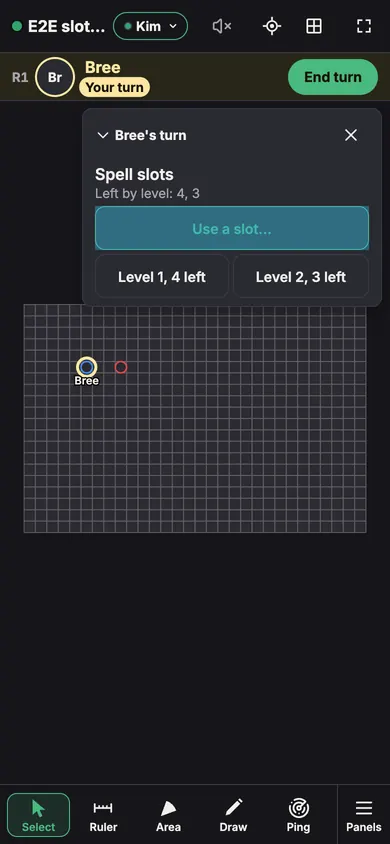
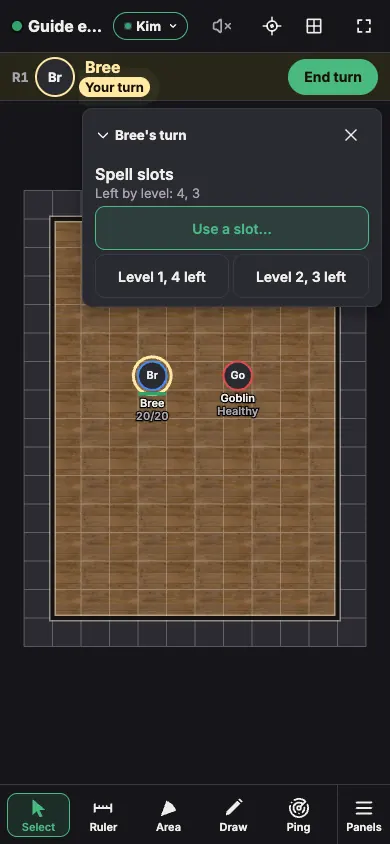
docs(slots): the guide's two slot pictures retaken, the examples' counts, the dm's search, the constitution field, the settled offer wording and the update note's wrap

diff --git a/docs/design/design-v1-slots.md b/docs/design/design-v1-slots.md
@@ -320,8 +320,8 @@ Each would add its own predicate in migrate.ts, gated at 68, in a lane stacked a
 - **D-261127-367** `patch.spent` needs `classes`, `ddbSync` and `expect.classes` in the same patch. Rejected: `classes` and `expect` alone.
 - **D-261127-368** With classes, a preset whose class is not in them asks for no update. Rejected: falling back to the total level.
 - **D-261127-369** sizeGuard counts `spent` and `useRev` at their widest for a lent player's rest. Rejected: no written field, which a lent rest disproves.
-- **D-261127-400** (amended by 408) Ordinary slots are offered at exactly the casting level, Pact as "cast at level 3". Rejected: Pact only at an equal level, which gives a Warlock's level 1 spell nothing.
-- **D-261127-401** Where Pact Magic is the only pool covering the spell, the casting level starts at the Pact level. Rejected: the spell's own level, which a Warlock must raise by hand every cast.
+- **D-261127-400** (amended by 408) Ordinary slots are offered at exactly the casting level, Pact as "cast at level 3". Rejected: Pact at or below its level after sending (408). Before sending, the Pact-only default of 401 still lets a Warlock's level 1 spell reach the Pact level.
+- **D-261127-401** Where Pact Magic is the only pool covering the spell, judged by the slot maxima the classes give and not the slots left, the casting level starts at the Pact level. Rejected: the spell's own level, which a Warlock must raise by hand every cast.
 - **D-261127-402** `useRev` is named beside `classes` and `spent` in the snapshot, import, projection, twins and scans, a whole number like `rev`. Rejected: a model field the strict import schema refuses.
 - **D-261127-403** An area spell with no row gets its offer in a fallback line under the creature's options. Rejected: no offer for such a spell.
 - **D-261127-404** A rest always moves `useRev`, a use only when it changes something. Rejected: every use op, no-ops too.
@@ -377,17 +377,17 @@ ASTRA-01 and R1-17 (Wild Shape CON): 2, 3.3, 6, D-263. ASTRA-02 (re-sync Undo af
 
 **Lane A (rules and server)**
 
-- Refusals the design names no words for: a slot or die op on a creature with no character reads "Only a character has spell slots and Hit Point Dice."; a character with no Pact Magic "Bree has no Pact Magic slots."; no die of the size "Bree has no d12 Hit Point Dice."; a shape or block whose numbers are not known on the server "The character's Constitution modifier is not known here." Below 1 HP or not alive reuses rest.ts REST_NEEDS_HP ("a rest needs at least 1 Hit Point"), the same check a rest makes.
+- Refusals the design names no words for. A slot or die op on a creature with no character reads "Only a character has spell slots and Hit Point Dice.", a character with no Pact Magic "Bree has no Pact Magic slots.", no die of the size "Bree has no d12 Hit Point Dice.", and a shape or block whose numbers are not known on the server "The character's Constitution modifier is not known here." Below 1 HP or not alive reuses rest.ts REST_NEEDS_HP ("a rest needs at least 1 Hit Point"), the same check a rest makes.
 - Refusal order for a die spend or roll: no classes, no die of that size, below 1 HP or not alive, full HP, none left.
 - `con` absent on a character with no block and no shape counts as +0.
 - The Hit Point Die roll's label is "Hit Point Die (d10)", so the line reads "Kim rolled for Bree, Hit Point Die (d10): 1d10+2 (7) = 9." The dice line is `to: "all"`, and its reach comes from `hitDie` in diceRollReach.
-- A typed die's line comes before its HP line in the op; order is free by D-261127-270.
+- A typed die's line comes before its HP line in the op. The order is free by D-261127-270.
 - Undo labels for give backs of the three new kinds read "giving back ..." (the design's words), while older kinds keep "restoring ...".
-- levelUps takes the classes as a third parameter; with an empty or absent list it keeps the total-level rule.
+- levelUps takes the classes as a third parameter. With an empty or absent list it keeps the total-level rule.
 - SPENT_MOST is 81 bytes, by the caps alone (nine slot levels at 4, Pact at 4, each die at 20). A lent character takes 4801 of EXACT_WIDTH.character's 5120 bytes (4685 before), a margin of 319 bytes.
 - stateSchema refuses an empty `classes` list and `spent` with no classes, since the reducer never stores either.
 - reid.caps.test.ts now loops the versions below version 8 ids, since a room at 50 or 51 gives no ids anew and its load runs no measure.
-- The replay proof is shared/reducer/useStamp.replay.test.ts with a hash-only fixture (14 KB): 120 seeded runs, 3600 ops, written on the base build ztwoqzzx (d30bb30c), byte-equal at 65, 66 and 67; live, 1787 of 3600 ops land otherwise, every one by the stamp.
+- The replay proof is shared/reducer/useStamp.replay.test.ts with a hash-only fixture (14 KB): 120 seeded runs, 3600 ops, written on the base build ztwoqzzx (d30bb30c), byte-equal at 65, 66 and 67. Live, 1787 of 3600 ops land otherwise, every one by the stamp.
 
 **Lane C (D&D Beyond)**
 
@@ -407,12 +407,15 @@ ASTRA-01 and R1-17 (Wild Shape CON): 2, 3.3, 6, D-263. ASTRA-02 (re-sync Undo af
 - The Classes sheet is titled "Classes". Each row puts its class on a line of its own, with the level and Remove under it, so a phone never leaves Remove alone on a line. The level uses the panel's stepper (minus 1, the number, plus 1), since no Size stepper with icons exists.
 - A new row takes the first SRD class no row picked, at level 1. With no rows the sheet says "No classes. Saving with none removes them and every spent slot and die, and keeps the level."
 - Below class level 3, "Its subclass casts spells" shows unticked and unavailable, and Save sends `third` only from 3. The Classes line names an Other class "Other class 3 (d8)".
-- Words the design left open: Restore off reads "Every level 3 spell slot is there.", "Every Pact Magic slot is there." and "Every d10 Hit Point Die is there."; Pact's Restore is named "Restore a Pact Magic slot"; Type a roll… is named "Type a roll for a d10 Hit Point Die"; a typed roll out of range reads "Type the HP from 1 to 100000."; the Constitution field's hint reads "-5 to 10. No stat block to read it from. This device keeps it."
+- Words the design left open. Restore off reads "Every level 3 spell slot is there.", "Every Pact Magic slot is there." and "Every d10 Hit Point Die is there." Pact's Restore is named "Restore a Pact Magic slot", and Type a roll… "Type a roll for a d10 Hit Point Die". A typed roll out of range reads "Type the HP from 1 to 100000.", and the Constitution field's hint "-5 to 10. No stat block to read it from. This device keeps it." A nonempty Constitution field that is no modifier from -5 to 10 holds Roll with "Type a Constitution modifier from -5 to 10." (SLOTS-ASTRA-01), and only an empty one counts as +0.
+- One pending guard serves every die row's Roll, typed Spend and Restore, so no second die goes before the first answer (SLOTS-ASTRA-02).
 - Pact Magic's row on the turn card has Use alone, as the card's class resource rows do. The drawer's and the full rows have Restore too.
 - The bar's drawer folds the slots wherever the bar spans a phone held upright, resting as the strip or expanded (TokenActionBar's frame `rest`).
 - A Hit Point Die roll's result shows once its answer commits, as the death save card's does (useCardRoll). It keeps no hold for the 3D dice. Where the numbers failed to load, Roll is off with "The Constitution modifier did not load." and the shared load-failure line stands under the rows.
 - The slot offer lives in the roll options' store as `offers`, keyed by the creature and the spell's name, case blind, so another ask from that spell replaces it, and an ask with no pool at its level ends it. Its group is named "Hold Person: Cast at level 2.", and Dismiss "Dismiss the slot offer for Hold Person". The fallback line stands at the top of the creature's options for every offer whose spell has no row.
-- The room search finds Classes, Spell slots and Hit Point Dice on a character's page only, not in the token panel.
+- The room search finds Classes, Spell slots and Hit Point Dice on a character's page only, not in the token panel. The DM finds Spell slots and Hit Point Dice on every character's page, as the rests, and Classes stays with the character's players (SLOTS-O-03).
+- A player lent only a character's token gets the Short Rest note without its classes, since he holds no Classes control (SLOTS-O-04).
 - The Long Rest note for a character with classes but no slots leaves out "every spell slot back". The party card names each kind any of the party has spent ("It also restores every class resource and spell slot.").
+- The DM guide's two pictures, spell-slots-turn.webp and short-rest-dice.webp, come from scripts/guide-slots.ts, in a room named "Guide examples", as the guide's other scripted pictures do.
 - RecentRolls.tsx needed no change: a Hit Point Die roll has no Again because `againInput` returns none for it.
 - Alignment: the page's slot rows, the Classes sheet with a Fighter and an Other row and its lowering line, the Short Rest card with two die sizes, its typed field and a landed roll, the turn card's folded row open and the drawer's Restore a slot… are in the sweep (alignmentRoom.ts slotScreens, at the combat screens' sizes). The turn card's folded row closed and the slot offer are measured in slotsdice.e2e.ts at 390 x 844.

diff --git a/FEATURES.md b/FEATURES.md
@@ -1565,7 +1565,7 @@ The DM asks players for a saving throw or an ability check, and each player roll
   - Layout: Like pips, the words drop as one part to the right end of the next line when the line is too narrow, and never break inside the count.
 - **Classes**: a character's classes and class levels, at most 12, each SRD class once, adding up to level 20 at most. Uses ends with "Classes: Wizard 5, Cleric 1" and its pencil, Edit classes, or with "Add your classes" for a character with none, for the DM and the character's players.
   - The Classes sheet has a row per class with its level and Remove, and Add a class. An Other class, for one that is not in SRD 5.2.1, takes a Hit Point Die and counts toward the level and the dice, never spell slots. A Fighter or Rogue has "Its subclass casts spells", from class level 3.
-  - Under the rows it previews what they give ("Spell slots: 4, 3, 2. Pact Magic: 2 at level 3. Hit Point Dice: 5 d10 and 1 d8.") and the level they add up to. Save sets the character's level to that sum, and a Save that lowers the level asks for a second tap ("Lower to level 3 and save"). Saving with no classes removes them and every spent slot and die, and keeps the level.
+  - Under the rows it previews what they give ("Spell slots: 4, 2. Pact Magic: 2 at level 3. Hit Point Dice: 5 d10 and 5 d8." for a Paladin 5 and Warlock 5) and the level they add up to. Save sets the character's level to that sum, and a Save that lowers the level asks for a second tap ("Lower to level 3 and save"). Saving with no classes removes them and every spent slot and die, and keeps the level.
   - A level that differs later, raised in Stats or by a re-sync, shows "Your classes add up to level 5, and your level is 6." at the head of Uses, with Edit classes.
   - With classes, a class resource asks to update when its own class's level rises ("Your Barbarian level is now 6. Update Barbarian resources?"), and Add a class resource starts at the first SRD class among them, at its level.
   - The sheet starts from the classes, else from the class resources' classes at the highest level each was read at.
@@ -1579,15 +1579,16 @@ The DM asks players for a saving throw or an ability check, and each player roll
   - Only the DM and the character's players see the classes, the slots and their log lines ("Bree used a level 3 spell slot (2 of 3 left).").
 - **Hit Point Dice**: one per class level, by each class's die, an Other class's by its own, dice of one size pooled. Rest shows "Hit Point Dice: 3 of 5 d10, 1 of 1 d8" under the rest choice.
   - With classes, the Short Rest card has a row per die size, largest first, with **Roll d10 + 2**, which rolls one die plus the Constitution modifier on the server and heals by it at once, at least 1 HP ("Rolled 7 + 2: 9 HP back."), **Type a roll…**, which spends one die for HP typed from a roll made at the table, and **Restore**.
-  - The modifier is the one the Dice panel rolls with: the stat block's, or in Wild Shape the beast's. With no stat block and no shape, a "Constitution modifier" field stands above the rows, which this device keeps for the character.
+  - The modifier is the one the Dice panel rolls with: the stat block's, or in Wild Shape the beast's. With no stat block and no shape, a "Constitution modifier" field stands above the rows, which this device keeps for the character. Empty, it counts as +0, and anything but a modifier from -5 to 10 holds Roll with "Type a Constitution modifier from -5 to 10."
+  - One die goes at a time: while a roll, a typed roll or a Restore waits for its answer, every row's buttons are busy.
   - Roll and Type a roll… are off at full HP ("Thorn's HP is full.") and with none of that die left. Cancel after a roll keeps the HP and the dice spent.
   - The roll's line reaches the DM and the character's players only and has no Again ("Kim rolled for Bree, Hit Point Die (d10): 1d10+2 (7) = 9."). The heal is an ordinary HP line, which others read as they read any heal.
-  - Without classes the card keeps the typed "HP regained" field.
+  - Without classes the card keeps the typed "HP regained" field. Its note points to the classes in Uses only for the DM and the character's players, never a player lent only its token.
 - A new class starts with every slot and die there. A player lent only a character's token spends none of its slots, dice or class resources.
 - Short Rest and Long Rest follow the SRD.
   - A Short Rest adds the HP the player rolled on Hit Point Dice, or with classes the dice rolled on its card, restores one use of each class resource that returns one at a time, such as Rage, all of each that returns on a Short Rest, every Pact Magic slot, and the abilities a Short Rest restores.
   - A Long Rest restores all HP, ends Temporary HP, removes one Exhaustion level, and restores legendary uses, spent abilities, every class resource, every spell slot and Pact Magic slot, and every Hit Point Die.
-  - A chosen rest names what it restores ("A Long Rest also restores Rage, 3 spell slots and 2 Hit Point Dice."). The DM can rest the whole party at once, and when any of the party has one spent, the rest's card says it also restores every class resource, spell slot and Hit Point Die.
+  - A chosen rest names what it restores ("A Long Rest also restores Rage, 3 spell slots and 2 Hit Point Dice."). The DM can rest the whole party at once, and the rest's card names each kind any of the party has spent that it also restores ("It also restores every class resource and spell slot.").
 - With a clock running, a Long Rest stamps the character with the in-game time it ended, for the DM only, and the DM's Long Rest cards give the earliest next start. Long Rest for the party has a checkbox, Move the clock on 8 hours, ticked each time (see Date and time).
 - The Monsters panel (DM) holds all 330 SRD 5.2.1 stat blocks. Search, then drop one on the map with average HP (or a typed number), AC, Speed, size, Initiative and senses. Its place card offers In its lair for a monster whose stat block has a lair (lair counts, lair XP or lair actions).
 - Filters like D&D Beyond's: challenge rating, creature type, legendary, has a lair (lair counts, lair XP or lair actions), size, condition and damage immunities, resistances, vulnerabilities, movement, senses and alignment. Or type it in the search: "cr 5", "cr 1-5", "cr 1/2-3", "cr 10-".
@@ -1977,7 +1978,7 @@ Search finds a panel, a setting, an action, a key, or a thing in the room, and e
   - Playlists, Play <playlist> and tracks are listed while the server has sound files on, as Sound's Library is.
   - "mute" finds U's row, which mutes or unmutes at once, then This device's Volume with its level or Muted. "unmute" or "room sound" finds Volume first.
   - A creature's field is listed only where its panel or page shows it, so a player lent a character's token finds its HP and conditions and none of its card.
-  - A character's page also has Classes, Spell slots and Hit Point Dice, for the DM and its players, the last two while its classes give any.
+  - A character's page also has Classes for its players, and Spell slots and Hit Point Dice for the DM on every character's page and for its players, each while its classes give any.
   - The digits that start an HP change are the row "Change HP", with this device's digits, and it goes to the selected token's HP field.
   - A token's and a character's groups are found too, and land on the group's heading: Position (with Elevation, Facing and Shares sight), Image, Stat block and Companions for anyone who sees them, and Owners and Players for the DM.
   - Row words: Action, Key, Panel, Dice, Field, Token, Character, Condition, Section, Scene, Playlist, Track, Page, Handout, Setting and Monster. A setting's row says "On" or "Off", and a value reads "<n> ft.".

diff --git a/docs/dm-guide.md b/docs/dm-guide.md
@@ -2155,7 +2155,7 @@ Each resource then shows its name with its count: for Rage's 3, three pips at th
 
 A character from D&D Beyond doesn't need its resources typed in at all. The D&D Beyond import and [Re-sync from D&D Beyond](#re-sync-from-dd-beyond) bring in the limited uses of its classes, species and feats, each with its count, the rest that brings it back, and the uses already spent there. Magic items' charges and spells stay out.
 
-**Classes, spell slots and Hit Point Dice.** Give a character its classes and the app counts its spell slots and Hit Point Dice for you. At the foot of **Uses**, press **Add your classes** (or the pencil beside "Classes: Wizard 5, Cleric 1" once it has some), then add a row for each class with its level. The sheet shows what the classes give before you save, such as "Spell slots: 4, 3, 2. Hit Point Dice: 5 d6 and 1 d8.", and saving sets the character's level to their sum, asking for a second tap if that lowers it. A class from outside the SRD, such as an Artificer, goes in as an **Other class** with its Hit Point Die: it counts toward the level and the dice, but never spell slots. For an Eldritch Knight or an Arcane Trickster, tick **Its subclass casts spells** on the Fighter or Rogue row. Those slots come from the 2024 Player's Handbook's one-third caster table, which isn't in the SRD, so the app says so beside the tick. A character brought in from D&D Beyond gets its classes from there.
+**Classes, spell slots and Hit Point Dice.** Give a character its classes and the app counts its spell slots and Hit Point Dice for you. At the foot of **Uses**, press **Add your classes** (or the pencil beside "Classes: Wizard 5, Cleric 1" once it has some), then add a row for each class with its level. The sheet shows what the classes give before you save, such as "Spell slots: 4, 3, 3. Hit Point Dice: 1 d8 and 5 d6.", and saving sets the character's level to their sum, asking for a second tap if that lowers it. A class from outside the SRD, such as an Artificer, goes in as an **Other class** with its Hit Point Die: it counts toward the level and the dice, but never spell slots. For an Eldritch Knight or an Arcane Trickster, tick **Its subclass casts spells** on the Fighter or Rogue row. Those slots come from the 2024 Player's Handbook's one-third caster table, which isn't in the SRD, so the app says so beside the tick. A character brought in from D&D Beyond gets its classes from there.
 
 With classes, each spell slot level gets a row under the class resources, such as "Level 3 spell slots" with its pips, and Pact Magic one more. Tap **Use** when a spell is cast, and **Restore** to give one back, which is also how Arcane Recovery or Font of Magic gets its slot back once its own row is spent. On the turn card and in the action bar's **Uses** on a phone held upright, the slots fold into one **Spell slots** row so the card stays short: **Use a slot…** opens a button for each level. When a player asks you for saves from a spell, their Dice panel offers to spend the slot it was cast at ("Cast at level 3." with **Use a level 3 spell slot**), so the slot and the spell never drift apart. A slot is never spent on its own: a free spell roll in the Dice panel spends nothing.
 
@@ -2163,7 +2163,7 @@ With classes, each spell slot level gets a row under the class resources, such a
 
 **Rests.** The **Rest** section of the Combat group has **Short Rest** and **Long Rest**. A Short Rest asks for the HP the player rolled on their Hit Point Dice. For a character with classes it rolls them instead: the card has a row for each die size, and each tap on **Roll d10 + 2** rolls one die with the character's Constitution modifier and heals by it at once, so a player can stop when they're back on their feet. A player who rolls real dice at the table taps **Type a roll…** and types the total, and that spends a die too. The count shows under the rest choice, "Hit Point Dice: 3 of 5 d10". A Long Rest restores all HP, ends Temporary HP, removes one Exhaustion level and resets Legendary Resistance. Each rest also gives back the class resources and abilities that come back on it: a Short Rest brings back one use of Rage, say, and every Pact Magic slot, and a Long Rest all of them, with every spell slot and Hit Point Die. Once you pick a rest, it tells you what it will give back before you finish it ("A Long Rest also restores Rage, 3 spell slots and 2 Hit Point Dice."). **Long Rest for the party**, at the foot of the **Characters** list, rests everyone at once and restores every class resource, spell slot and Hit Point Die too. While the room has a clock, it can also move the clock on 8 hours (see [Time and the calendar](#time-and-the-calendar)). Only you and the character's players see its classes, slots and dice.
 
-![Bree's Short Rest card on a phone held upright: her typed Constitution modifier of 1, then the d8 and d6 Hit Point Dice rows, each with Roll, Type a roll… and Restore, after two d6 rolls, the last reading "Rolled 2 + 1: 3 HP back."](dm-guide/short-rest-dice.webp)
+![Bree's Short Rest card on a phone held upright: the note "Spend Hit Point Dice one at a time. Each one heals at once.", her typed Constitution modifier of 1, then the d8 and d6 Hit Point Dice rows, each with Roll, Type a roll… and Restore, after one d6 roll reading "Rolled 6 + 1: 7 HP back."](dm-guide/short-rest-dice.webp)
 
 ### Re-sync from D&D Beyond
 

diff --git a/docs/self-hosting.md b/docs/self-hosting.md
@@ -682,11 +682,12 @@ newest first.
 - **Spell slots and Hit Point Dice** ([design](design/design-v1-slots.md)):
   change format 68, room format 51. Back up the database just before the
   update, and reload DM pages first, then every other open page, since an
-  old page shows no classes, spell slots or Hit Point Dice. After a clean stop an older build refuses any room this
-  version saved a snapshot of, and after a crash or a forced stop any room
-  with changes at format 68 after its last snapshot, so going back needs the
-  backup taken just before the update for those rooms. A room only opened
-  and left untouched needs nothing.
+  old page shows no classes, spell slots or Hit Point Dice. After a clean
+  stop an older build refuses any room this version saved a snapshot of,
+  and after a crash or a forced stop any room with changes at format 68
+  after its last snapshot, so going back needs the backup taken just before
+  the update for those rooms. A room only opened and left untouched needs
+  nothing.
 - **A creature falls once a step** ([design](design/design-v1-floors.md)):
   change format 67, room format 50 as before. Back up the database just
   before the update. When both tokens of one character fall in one step,
